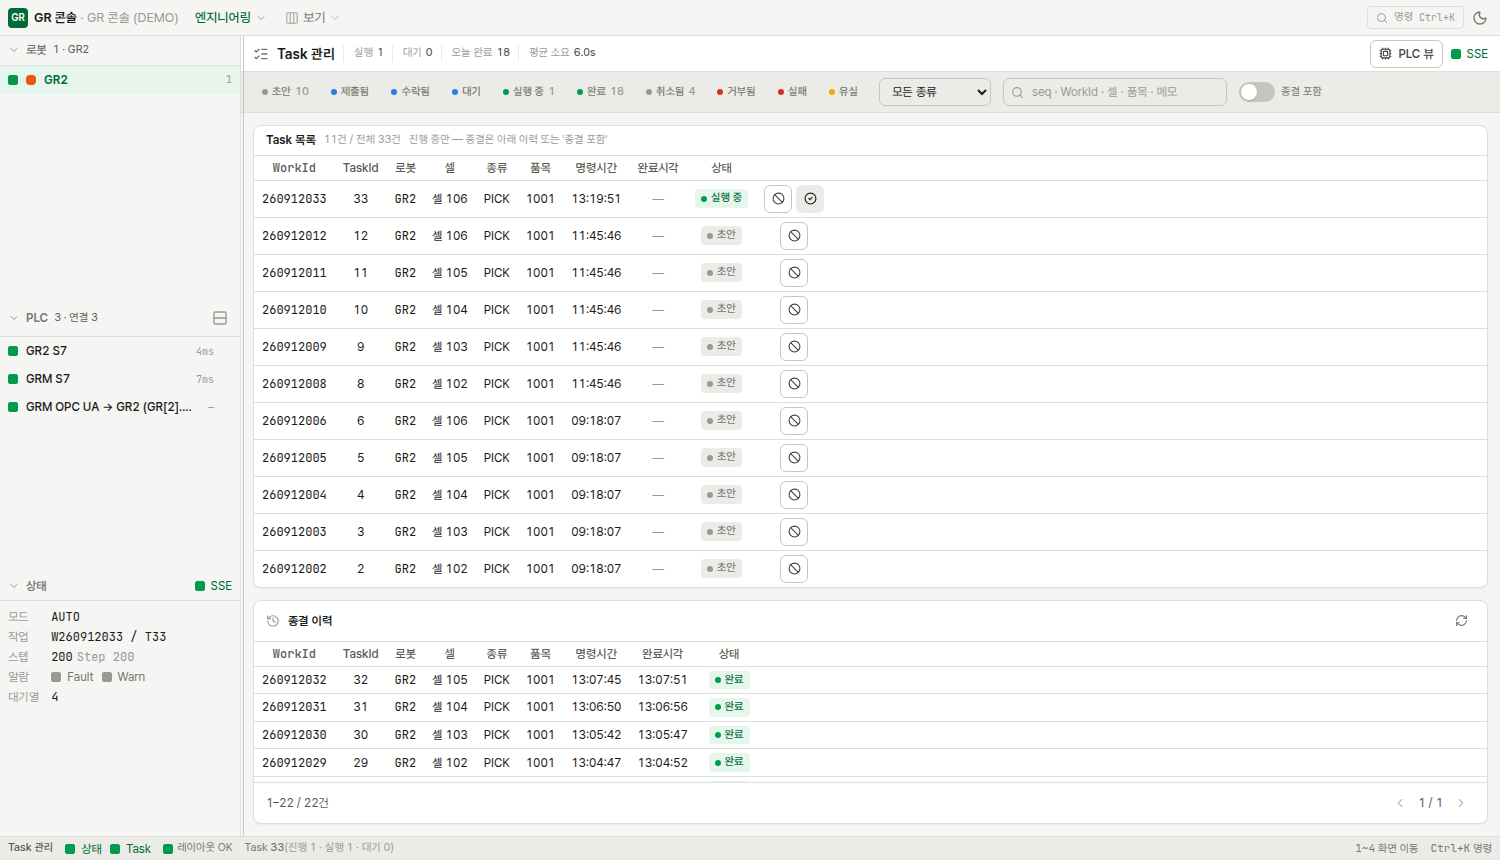
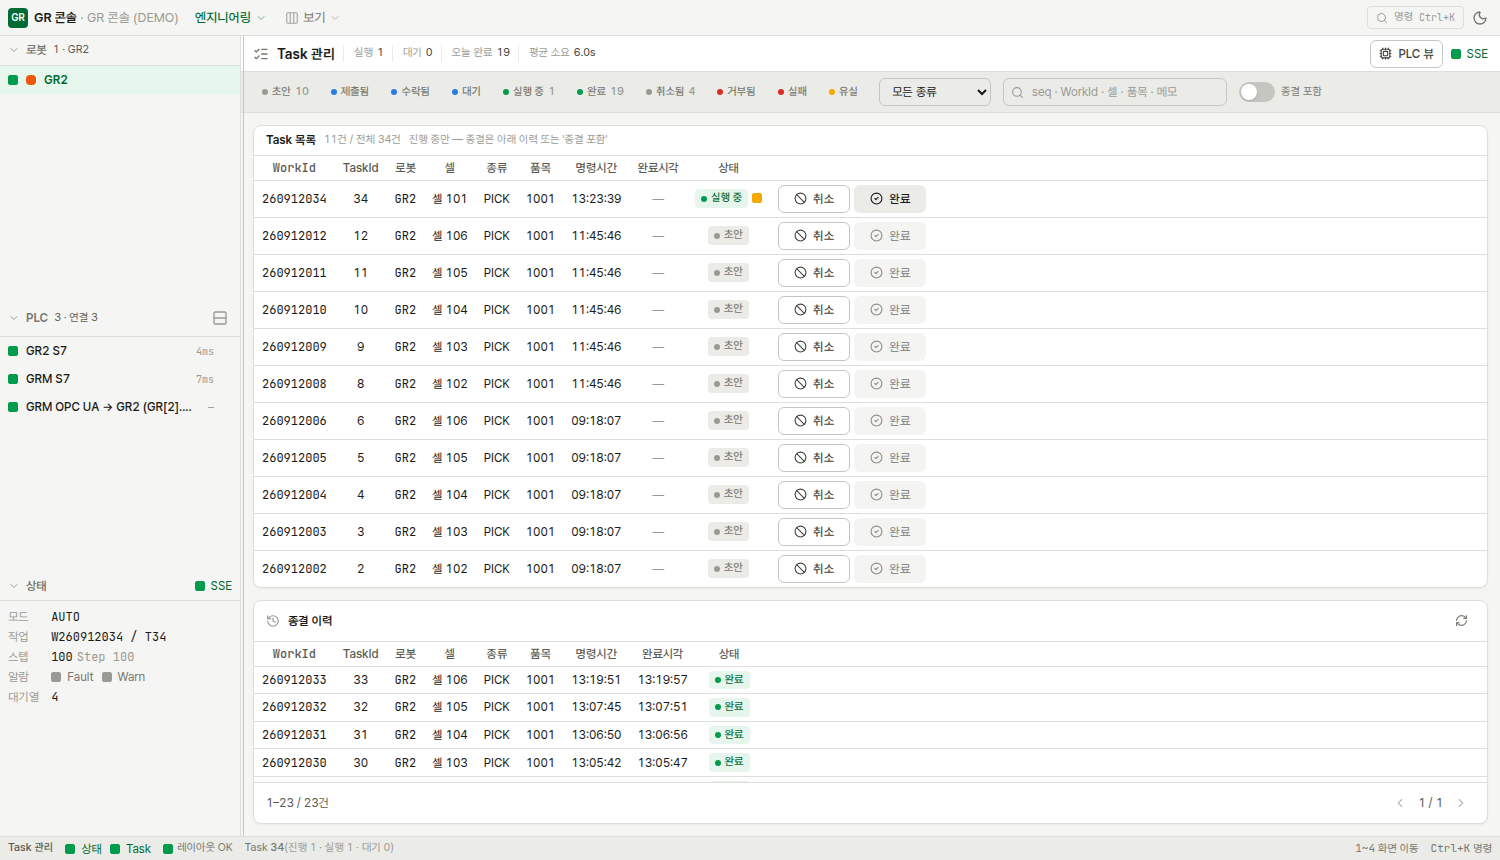
행 버튼은 아이콘+글자 고정 너비 둘 · 취소는 같은 WorkId의 뒤 Task까지
- 행 액션: 아이콘만 → 아이콘+짧은 글자(취소·완료), 고정 너비(w-18) 두 슬롯이 항상 같은 자리.
  상태가 허용하지 않는 쪽은 사유를 title로 달고 비활성 — 개수가 달라지면 열이 흔들려 세로로
  훑을 수 없다. 대화상자 제목은 긴 이름(완료 처리) 그대로.
- 취소의 꼬리: 한 WorkId는 TaskId 순서로 도는 조각들이라 가운데를 취소하면 뒤가 앞이 만들지
  않은 상태 위에서 돈다. ops::cascade_after가 같은 WorkId의 뒤 Task 중 살아 있는 것을 골라
  Delete를 TaskId 순으로 하나씩 보내고(PLC는 한 번에 하나), 이력에 "delete requested (cascade
  from task N)"를 남긴다(요청 귀속은 그대로). 앞 Task·초안·종결·다른 WorkId는 건드리지 않는다.
- 프런트 cascadeAfter(같은 규칙)가 확인 대화상자에 "뒤 Task N건도 함께 취소됩니다 — #…"를 띄운다.
- 테스트: ops 1건(Rust) · state 2건(vitest, 168). DESIGN.md 자리 표·아이콘 예산, ui-ux-plan 13차.

Claude-Session: https://claude.ai/code/session_011b3u36fz4wQ2544xtQUSrM

diff --git a/apps/gr-web/src/components/taskmgr/TaskActions.tsx b/apps/gr-web/src/components/taskmgr/TaskActions.tsx
@@ -7,10 +7,14 @@ import { ConfirmDialog } from '../../lib/ui/ConfirmDialog'
 import { FieldList, type FieldItem } from '../../lib/ui/FieldList'
 import { Input } from '../../lib/ui/Input'
 import { runAction } from '../../lib/task/actions'
+import { tasks } from '../../lib/tasks'
+import { useStore } from '../../lib/store'
 import {
   ACTION_LABEL,
   STATE_LABEL,
   allowedActions,
+  cascadeAfter,
+  isTerminal,
   dimsLabel,
   isRobotAction,
   targetOf,
@@ -28,8 +32,11 @@ export interface TaskActionsProps {
   only?: readonly TaskAction[]
   /** 아이콘 없이 글자만. */
   icons?: boolean
-  /** 아이콘만(행 액션 열) — 라벨은 `aria-label`·`title`로 남는다. 표 셀의 유일한 아이콘 예외다. */
-  iconOnly?: boolean
+  /**
+   * 행 액션 열 — 아이콘+짧은 글자, **고정 너비 둘**(취소·완료)이 항상 같은 자리에 선다. 상태가
+   * 허용하지 않는 쪽은 사유를 달고 비활성(자리를 비우면 열이 흔들려 세로로 훑을 수 없다).
+   */
+  row?: boolean
   /** `data-testid` 접두 — 상세(`action-*`)와 행(`row-action-*`)이 한 화면에 같이 선다. */
   testid?: string
 }
@@ -44,6 +51,16 @@ const ICON: Record<TaskAction, React.ReactNode> = {
 }
 
 const DANGER: ReadonlySet<TaskAction> = new Set<TaskAction>(['cancel', 'fail', 'delete'])
+const ROW_DEFAULT: readonly TaskAction[] = ['cancel', 'complete']
+/** 행 버튼의 짧은 글자 — 폭이 고정이라 `완료 처리`는 들어가지 않는다. 대화상자 제목은 긴 이름을 쓴다. */
+const ROW_LABEL: Partial<Record<TaskAction, string>> = { cancel: '취소', complete: '완료' }
+/** 행 모드에서 비활성인 이유 — 회색으로 침묵하는 버튼은 고장으로 읽힌다(DESIGN.md 4절 ⑥). */
+function whyNot(a: TaskAction, state: Task['state']): string {
+  if (isTerminal(state)) return `${STATE_LABEL[state]} — 끝난 Task`
+  if (a === 'complete' && (state === 'draft' || state === 'submitted'))
+    return `${STATE_LABEL[state]} — PLC에 아직 자리가 없어 완료 처리할 수 없음`
+  return `${STATE_LABEL[state]}에서는 할 수 없음`
+}
 
 // 확인은 **질문 한 줄**이다. PLC 허용 조건·AUTO 모드 같은 규칙은 여기 적지 않는다 — 막히면 서버가
 // 그 이유를 토스트로 말하고, 매번 읽지 않는 안내문은 진짜 경고(되돌릴 수 없음)까지 묻어 버린다.
@@ -105,14 +122,20 @@ export function TaskActions({
   size = 'sm',
   only,
   icons = true,
-  iconOnly = false,
+  row = false,
   testid = 'action',
 }: TaskActionsProps) {
   const [pending, setPending] = useState<TaskAction | null>(null)
   const [busy, setBusy] = useState<TaskAction | null>(null)
   const [note, setNote] = useState('')
-  const actions = allowedActions(task.state).filter((a) => !only || only.includes(a))
+  useStore(tasks)
+  const allowed = allowedActions(task.state)
+  // 행 모드는 슬롯이 고정이다(`only` 순서대로, 허용 안 되면 비활성). 그 외는 허용된 것만.
+  const actions = row
+    ? [...(only ?? ROW_DEFAULT)]
+    : allowed.filter((a) => !only || only.includes(a))
   if (actions.length === 0) return null
+  const tail = pending === 'cancel' && task.state !== 'draft' ? cascadeAfter(tasks.list, task) : []
 
   const run = async (a: TaskAction) => {
     setBusy(a)
@@ -127,29 +150,29 @@ export function TaskActions({
 
   return (
     <>
-      {/* 아이콘만일 때는 줄바꿈하지 않는다 — 폭이 내용에 맞는 표 셀(`fit`)에서 둘이 세로로 쌓인다. */}
+      {/* 행 모드는 줄바꿈하지 않는다 — 폭이 내용에 맞는 표 셀(`fit`)에서 둘이 세로로 쌓인다. */}
       <div
         className={
-          iconOnly ? 'flex items-center justify-center gap-1' : 'flex flex-wrap items-center gap-1'
+          row ? 'flex items-center justify-center gap-1' : 'flex flex-wrap items-center gap-1'
         }
         data-testid="task-actions"
       >
         {actions.map((a) => (
           <Button
             key={a}
-            size={iconOnly ? 'icon-sm' : size}
+            size={size}
             intent={
               DANGER.has(a) ? 'outline' : a === 'submit' || a === 'resubmit' ? 'primary' : 'neutral'
             }
-            icon={icons || iconOnly ? ICON[a] : undefined}
+            icon={icons ? ICON[a] : undefined}
             loading={busy === a}
-            disabled={busy !== null}
-            aria-label={iconOnly ? ACTION_LABEL[a] : undefined}
-            title={iconOnly ? ACTION_LABEL[a] : undefined}
+            disabled={busy !== null || (row && !allowed.includes(a))}
+            title={row && !allowed.includes(a) ? whyNot(a, task.state) : undefined}
+            className={row ? 'w-18 justify-center' : undefined}
             data-testid={`${testid}-${a}`}
             onClick={() => setPending(a)}
           >
-            {iconOnly ? null : ACTION_LABEL[a]}
+            {row ? (ROW_LABEL[a] ?? ACTION_LABEL[a]) : ACTION_LABEL[a]}
           </Button>
         ))}
       </div>
@@ -167,6 +190,12 @@ export function TaskActions({
         >
           <p className="m-0 text-content-primary">{describe(pending, task)}</p>
           <FieldList className="mt-3" items={identity(task)} columns={2} labelWidth={96} dense />
+          {tail.length > 0 ? (
+            <p className="mt-3 mb-0 text-warn-fg" data-testid="cascade-note">
+              같은 WorkId의 뒤 Task {tail.length}건도 함께 취소됩니다 —{' '}
+              {tail.map((t) => `#${t.seq}(TaskId ${t.task_id})`).join(' · ')}
+            </p>
+          ) : null}
           {pending === 'fail' ? (
             <Input
               className="mt-3"

diff --git a/apps/gr-web/src/lib/task/state.ts b/apps/gr-web/src/lib/task/state.ts
@@ -101,6 +101,28 @@ export function allowedActions(state: TaskState): TaskAction[] {
   }
 }
 
+/**
+ * 같은 WorkId의 **뒤** Task 중 살아 있는 것 — 취소가 함께 데려간다(백엔드 `ops::cascade_after`와
+ * 같은 규칙). 한 작업(WorkId)은 TaskId 순서로 도는 조각들이라, 가운데를 취소하고 뒤를 두면 앞이
+ * 만들지 않은 상태 위에서 뒤가 돈다. 확인 대화상자가 이 목록을 보여 준 뒤 묻는다.
+ */
+export function cascadeAfter(
+  tasks: readonly Pick<Task, 'id' | 'seq' | 'work_id' | 'task_id' | 'state'>[],
+  task: Pick<Task, 'id' | 'work_id' | 'task_id'>,
+): Pick<Task, 'id' | 'seq' | 'work_id' | 'task_id' | 'state'>[] {
+  if (!task.work_id) return []
+  return tasks
+    .filter(
+      (t) =>
+        t.id !== task.id &&
+        t.work_id === task.work_id &&
+        t.task_id > task.task_id &&
+        t.state !== 'draft' &&
+        !TERMINAL.includes(t.state),
+    )
+    .sort((a, b) => a.task_id - b.task_id)
+}
+
 /** 실장비에 물리적 결과가 있는 조작 — ConfirmDialog scope `single-robot`. */
 export function isRobotAction(a: TaskAction): boolean {
   return a === 'cancel' || a === 'complete'

diff --git a/apps/gr-web/src/lib/task/state.test.ts b/apps/gr-web/src/lib/task/state.test.ts
@@ -1,5 +1,6 @@
 import { describe, expect, it } from 'vitest'
 import {
+  cascadeAfter,
   ALL_STATES,
   EMPTY_FILTER,
   TERMINAL,
@@ -222,5 +223,27 @@ describe('matchesFilter', () => {
         typeName,
       ),
     ).toBe(true)
+  })
+})
+
+describe('cascadeAfter', () => {
+  const t = (id: string, work: number, tid: number, state: TaskState) =>
+    task({ id, seq: tid, work_id: work, task_id: tid, state })
+  it('같은 WorkId의 뒤 Task 중 살아 있는 것만, TaskId 순으로', () => {
+    const me = t('me', 7, 2, 'running')
+    const all = [
+      t('a', 7, 1, 'completed'),
+      me,
+      t('d', 7, 4, 'queued'),
+      t('c', 7, 3, 'accepted'),
+      t('e', 7, 5, 'draft'),
+      t('f', 7, 6, 'canceled'),
+      t('g', 8, 3, 'queued'),
+    ]
+    expect(cascadeAfter(all, me).map((x) => x.id)).toEqual(['c', 'd'])
+    expect(cascadeAfter(all, t('d', 7, 4, 'queued'))).toEqual([])
+  })
+  it('WorkId가 없는(제출 전) Task는 꼬리가 없다', () => {
+    expect(cascadeAfter([t('x', 7, 3, 'queued')], t('me', 0, 0, 'draft'))).toEqual([])
   })
 })

diff --git a/apps/gr-web/src/components/taskmgr/TaskTable.tsx b/apps/gr-web/src/components/taskmgr/TaskTable.tsx
@@ -188,7 +188,7 @@ export function TaskTable({
       fit
       actions={
         rowActions
-          ? (t) => <TaskActions task={t} only={ROW_ACTIONS} iconOnly testid="row-action" />
+          ? (t) => <TaskActions task={t} only={ROW_ACTIONS} row testid="row-action" />
           : undefined
       }
     />

diff --git a/apps/gr-console/src/ledger/ops.rs b/apps/gr-console/src/ledger/ops.rs
@@ -128,6 +128,17 @@ fn watch_op_answer(ledger: Arc<super::Ledger>, id: String, state: TaskState, wha
     });
 }
 
+/// Later tasks of the same WorkId that are still alive. A WorkId is one job split into TaskIds
+/// that the PLC runs in order; canceling task N while N+1.. are queued leaves the job half-done
+/// with the tail still waiting to run on a state the canceled task never produced. So a cancel
+/// takes the tail with it — the dialog says so before the operator confirms.
+pub fn cascade_after(entries: &[LedgerEntry], key: TaskKey) -> Vec<LedgerEntry> {
+    let mut v: Vec<LedgerEntry> =
+        entries.iter().filter(|e| e.key().work_id == key.work_id && e.key().task_id > key.task_id && !e.state.is_terminal() && e.state != TaskState::Draft).cloned().collect();
+    v.sort_by_key(|e| e.key().task_id);
+    v
+}
+
 pub async fn cancel(st: &AppState, id: &str) -> Result<LedgerEntry, ApiError> {
     let (r, e) = st.find_task(id).ok_or_else(|| ApiError::NotFound(format!("task {id}")))?;
     match e.state {
@@ -153,11 +164,19 @@ pub async fn cancel(st: &AppState, id: &str) -> Result<LedgerEntry, ApiError> {
     // Note the request *before* the op: `task_op` sleeps 600 ms for the re-arm, during which the sync
     // engine may already record `Canceled` — upserting a pre-op snapshot afterwards would clobber it.
     let id = e.id.clone();
-    let mut e2 = e.clone();
-    e2.history.push(super::Transition { from: Some(e2.state), to: e2.state, at: crate::util::now_str(), by: Actor::Ui, note: Some(super::sync::DELETE_REQUESTED.into()) });
-    r.ledger.upsert(e2)?;
-    task_op(&r.cmd, TaskOp::Delete, e.key()).await?;
-    watch_op_answer(r.ledger.clone(), id.clone(), e.state, "Delete");
+    let tail = if e.key().work_id != 0 { cascade_after(&r.ledger.list(), e.key()) } else { Vec::new() };
+    for t in std::iter::once(&e).chain(tail.iter()) {
+        let mut t2 = t.clone();
+        let note = if t.id == e.id { super::sync::DELETE_REQUESTED.to_string() } else { format!("{} (cascade from task {})", super::sync::DELETE_REQUESTED, e.key().task_id) };
+        t2.history.push(super::Transition { from: Some(t2.state), to: t2.state, at: crate::util::now_str(), by: Actor::Ui, note: Some(note) });
+        r.ledger.upsert(t2)?;
+    }
+    // The PLC takes one Delete at a time (re-armed with zeros in between): the requested task first,
+    // then its tail in TaskId order.
+    for t in std::iter::once(&e).chain(tail.iter()) {
+        task_op(&r.cmd, TaskOp::Delete, t.key()).await?;
+        watch_op_answer(r.ledger.clone(), t.id.clone(), t.state, "Delete");
+    }
     Ok(r.ledger.get(&id).unwrap_or(e))
 }
 
@@ -210,4 +229,38 @@ pub fn mark_failed(st: &AppState, id: &str, note: Option<String>) -> Result<Ledg
 pub fn remove(st: &AppState, id: &str) -> Result<(), ApiError> {
     let (r, _) = st.find_task(id).ok_or_else(|| ApiError::NotFound(format!("task {id}")))?;
     r.ledger.remove(id)
+}
+
+#[cfg(test)]
+mod tests {
+    use super::*;
+    use crate::db::Db;
+    use crate::ledger::{Ledger, Origin};
+
+    fn entry(ledger: &Ledger, w: u32, t: u32, state: TaskState) -> LedgerEntry {
+        let task = TaskData { work_id: w, task_id: t, task_type: 0x41, ..Default::default() };
+        // `create` keys a console entry 0:0 until submission assigns the ids — set them as submit would.
+        let mut e = ledger.create(Origin::Console, None, None, task).unwrap();
+        e.work_id = w;
+        e.task_id = t;
+        ledger.upsert(e.clone()).unwrap();
+        if state == TaskState::Draft { e } else { ledger.transition(e, state, Actor::Plc, None).unwrap() }
+    }
+
+    #[test]
+    fn cascade_takes_later_alive_tasks_of_the_same_work_only() {
+        let db = Db::open_memory().unwrap();
+        let ledger = Ledger::new(db, "GR2", None).unwrap();
+        entry(&ledger, 7, 1, TaskState::Completed); // earlier, done — untouched
+        let me = entry(&ledger, 7, 2, TaskState::Running);
+        entry(&ledger, 7, 4, TaskState::Queued); // later — goes
+        entry(&ledger, 7, 3, TaskState::Accepted); // later — goes, sorted before 4
+        entry(&ledger, 7, 5, TaskState::Draft); // never submitted — stays a draft
+        entry(&ledger, 7, 6, TaskState::Canceled); // already terminal
+        entry(&ledger, 8, 3, TaskState::Queued); // other work
+        let tail: Vec<u32> = cascade_after(&ledger.list(), me.key()).iter().map(|e| e.key().task_id).collect();
+        assert_eq!(tail, vec![3, 4]);
+        // the requested task itself is never in its own tail
+        assert!(cascade_after(&ledger.list(), TaskKey { work_id: 7, task_id: 4 }).is_empty());
+    }
 }

diff --git a/apps/gr-console/src/ledger/sync.rs b/apps/gr-console/src/ledger/sync.rs
@@ -193,7 +193,8 @@ pub const COMPLETE_REQUESTED: &str = "complete requested";
 
 /// The last history line is a pending console request (`delete requested` / `complete requested`).
 fn last_request(e: &LedgerEntry) -> Option<&str> {
-    e.history.iter().rev().find(|t| t.from == Some(t.to)).and_then(|t| t.note.as_deref()).filter(|n| *n == DELETE_REQUESTED || *n == COMPLETE_REQUESTED)
+    // a cascade note is `"delete requested (cascade from task N)"` — same request, same attribution
+    e.history.iter().rev().find(|t| t.from == Some(t.to)).and_then(|t| t.note.as_deref()).and_then(|n| [DELETE_REQUESTED, COMPLETE_REQUESTED].into_iter().find(|k| n.starts_with(k)))
 }
 
 /// Note for a PLC-side terminal transition, attributing it to the console request that asked for it.

diff --git a/docs/DESIGN.md b/docs/DESIGN.md
@@ -268,7 +268,7 @@ MANUAL`). 회색 문장으로 풀어 쓰면 필요한 항목 하나를 뽑으려
 | **존 탭 띠** | 탭(아이콘 1 + 이름 + 요약 1) · 창 메뉴 · 접기 · `해제` | 조작 버튼 · 필터 · 검색 · 로고 |
 | **화면 머리띠**(`ScreenHeader`) | 제목(단일 화면 모드) · 라벨+값 요약 · 오른쪽에 토글/상태 점 **2개까지** | 주 조작(제출·삭제) · 필터 · 문단 |
 | **도구 띠**(`Toolbar`) | 버튼 · 세그먼트 · 입력 | 집계 · 상태 표시 · 배지 |
-| **표**(`DataTable`) | 값 · 상태 캡슐(**한 열**) · 행 액션(오른쪽 끝 열 · 아이콘 버튼 **둘까지**, 이름은 `aria-label`·`title` · 확인 대화상자를 거친다) | 문단 · 장식 아이콘 · 색 채운 셀(상태 캡슐 외) · 이미지 · 이름 옆에 얹은 캡슐 |
+| **표**(`DataTable`) | 값 · 상태 캡슐(**한 열**) · 행 액션(오른쪽 끝 열 · 아이콘+짧은 글자 · **고정 너비 둘**이 항상 같은 자리, 안 되는 쪽은 사유를 달고 비활성 · 확인 대화상자를 거친다) | 문단 · 장식 아이콘 · 색 채운 셀(상태 캡슐 외) · 이미지 · 이름 옆에 얹은 캡슐 |
 | **인스펙터**(`FieldList`) | 라벨+값 · 단위 · 상태 점 | 버튼(조작은 도구 띠로) · 값 자리의 캡슐 |
 | **목록 행**(사이드바 · 패널) | 점(앞) · 이름 · 숫자(뒤, 고정폭) | 캡슐 · 개수 알약 · 두 번째 색 |
 | **상태바** | 전역 상태 · 집계 · 단축키 힌트 | 조작 — **예외 하나**: 보이는 패널을 누르면 배치 명령이 열린다 |
@@ -284,7 +284,7 @@ MANUAL`). 회색 문장으로 풀어 쓰면 필요한 항목 하나를 뽑으려
 | 것 | 예산 | 왜 |
 | --- | --- | --- |
 | **accent**(브랜드 초록) | 화면당 **주 조작 하나**. 그 외엔 선택 배경(`accent-soft`)과 활성 표시(2px 밑줄), 드래그·리사이즈 피드백뿐 | 초록이 셋이면 어느 것이 "그 버튼"인지 사라진다 |
-| **아이콘** | 한 컨트롤에 하나, 라벨 **왼쪽**에만. 표 셀 안에는 없다(상태 점과 **행 액션 열의 아이콘 버튼** 제외 — 그 버튼은 `aria-label`·`title`로 이름을 든다) | 아이콘은 식별자지 장식이 아니다. 두 개면 둘 다 안 읽힌다 |
+| **아이콘** | 한 컨트롤에 하나, 라벨 **왼쪽**에만. 표 셀 안에는 없다(상태 점과 **행 액션 열의 버튼** 제외 — 그 버튼은 아이콘+글자다) | 아이콘은 식별자지 장식이 아니다. 두 개면 둘 다 안 읽힌다 |
 | **상태색** | 6종 고정(`ok·warn·degraded·fault·info·neutral`). 정상은 **표시하지 않는 것이 기본** | 모든 행이 초록 캡슐이면 붉은 하나가 안 보인다 |
 | **캡슐**(`StatusBadge`) | 표의 상태 열 **하나** · 상세 머리줄 **하나**. 그 외는 점+글자 | 캡슐은 폭이 글자를 따라가 자리가 흔들린다 — 세로로 훑을 수 없다 |
 | **그림자** | 면이 **겹칠 때만**(모달 · 팝오버 · 드롭다운 · 토스트) | 평상시 구분은 1px 보더가 한다. 떠 있는 카드는 겹치지도 않으면서 시선을 먹는다 |

diff --git a/docs/ui-ux-plan.md b/docs/ui-ux-plan.md
@@ -398,6 +398,20 @@ drawer 0).
   다른 모양으로 보이고 종결 뒤에 "어디 갔지"를 찾게 된다. 이력의 번호·Ack·출처·소요·사유 열은
   뺐다 — 사유는 상세(이력 타임라인)가 든다.
 
+### 행 버튼 둘은 고정 너비 · 취소는 같은 WorkId의 뒤까지 (13차)
+
+- **아이콘만 → 아이콘+글자, 고정 너비 둘.** 아이콘만인 버튼은 허용 여부에 따라 하나·둘로 개수가
+  달라져 열이 흔들렸다. 이제 `취소`·`완료` 두 슬롯이 항상 같은 자리(`w-18`)에 서고, 상태가 허용하지
+  않는 쪽은 **사유를 달고 비활성**이다(4절 ⑥ — 회색으로 침묵하는 버튼은 고장으로 읽힌다). 대화상자
+  제목은 긴 이름(`완료 처리`)을 그대로 쓴다.
+- **취소의 꼬리.** 한 작업(WorkId)은 TaskId 순서로 도는 조각들이다. 가운데를 취소하고 뒤를 두면 앞이
+  만들지 않은 상태 위에서 뒤가 돈다. 그래서 취소는 같은 WorkId의 **뒤 Task 중 살아 있는 것**을 함께
+  데려간다 — 백엔드 `ops::cascade_after`(단위 테스트)가 고르고 Delete를 TaskId 순으로 하나씩
+  보내며(PLC는 한 번에 하나), 이력에는 `delete requested (cascade from task N)`가 남는다. 프런트
+  `cascadeAfter`(같은 규칙, 테스트)가 확인 대화상자에 "뒤 Task N건도 함께 취소됩니다 — #…"를 띄운다.
+  앞 Task·초안·이미 끝난 것·다른 WorkId는 건드리지 않는다. 데모는 Task마다 WorkId가 달라 이 경로가
+  화면에서는 보이지 않는다 — 실장비에서 한 WorkId에 여러 TaskId를 넣을 때 확인할 것.
+
 ---
 
 ## 4. 다음 단계 (백로그)

diff --git a/docs/screenshots/README.md b/docs/screenshots/README.md
@@ -71,6 +71,6 @@
 | ![](50_dot_label_detail.png) | 상세의 값 자리는 점+글자(`연결됨` · `레이아웃 OK`) — 폭이 고정이라 옆 값의 x가 흔들리지 않는다 |
 | ![](51_cancel_timeline.png) | Task 취소 — 이력이 `delete requested`(콘솔) → `canceled on PLC (console request)`(PLC)로 읽힌다. PLC 자발 취소는 `(console request)`가 없다 |
 | ![](52_plc_view_terminal_bits.png) | PLC 뷰 — `Task.Status.Complete`·`Canceled` 비트가 보인다. 원장은 링보다 이 비트로 먼저 끝낸다 |
-| ![](53_row_actions.png) | Task 목록·종결 이력 — **같은 열**(WorkId · TaskId · 로봇 · 셀 · 종류 · 품목 · 명령시간 · 완료시각 · 상태), 열 폭은 내용에 맞춰 왼쪽으로 붙는다(`fit`). 목록에는 취소·완료 아이콘 버튼 |
+| ![](53_row_actions.png) | Task 목록·종결 이력 — **같은 열**(WorkId · TaskId · 로봇 · 셀 · 종류 · 품목 · 명령시간 · 완료시각 · 상태), 열 폭은 내용에 맞춰 왼쪽으로 붙는다(`fit`). 목록에는 취소·완료 버튼(아이콘+글자, 고정 너비 둘 — 안 되는 쪽은 사유를 달고 비활성) |
 | ![](54_row_action_confirm.png) | 확인 대화상자 — **질문 한 줄** + 어떤 Task인지 알아볼 라벨+값 짝(종류·대상·품목·로봇·상태·Id·메모). 규칙 안내문은 없다 |
 | ![](42_view_menu_fixed.png) | `보기` 메뉴 — 라벨이 줄어들지 않고 힌트가 먼저 잘린다(예전에는 `명령 중 / 심`으로 끊겼다) |
